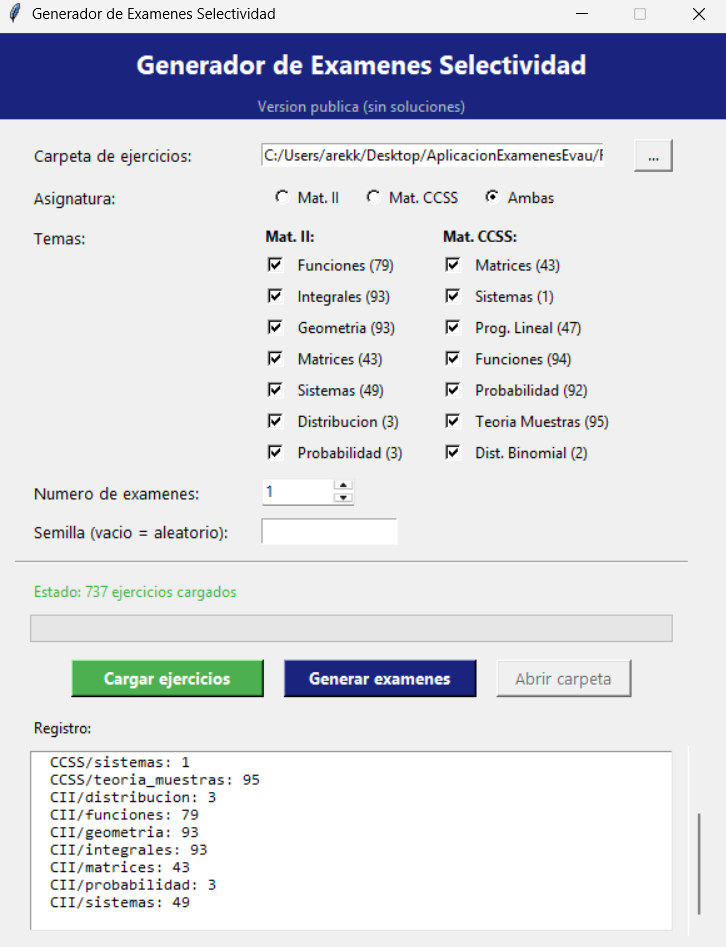
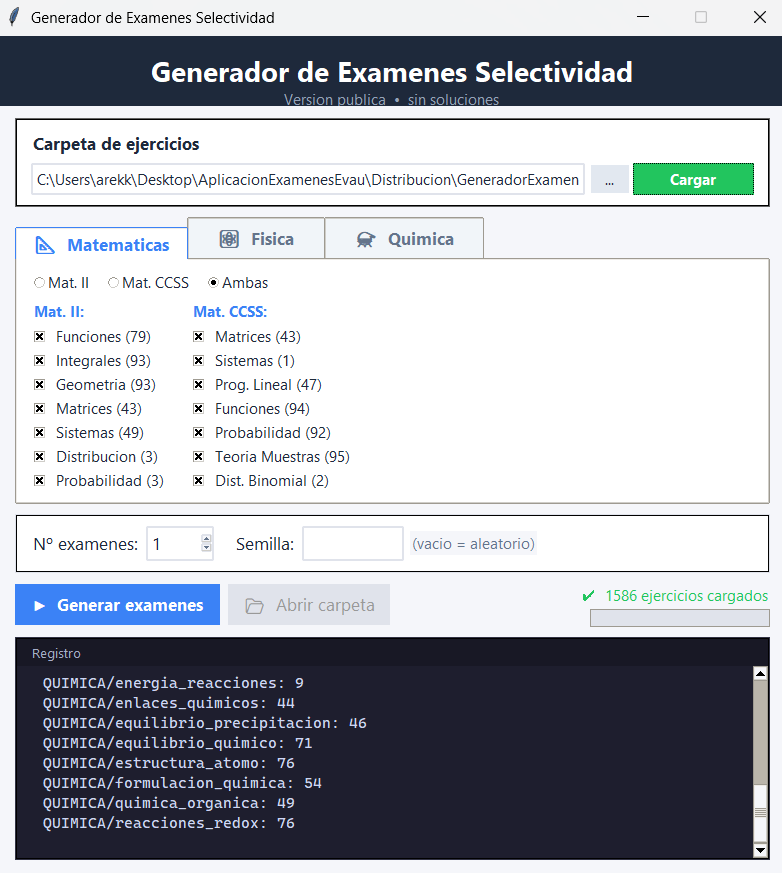
Update website

diff --git a/README.md b/README.md
@@ -1,6 +1,7 @@
-# Generador de Examenes Selectividad 
+# Generador de Examenes Selectividad
+
 <p align="center">
-  Crea exámenes personalizados de <b>Matemáticas II</b> y <b>Mates CCSS</b> en segundos.
+  Crea exámenes personalizados de <b>Matematicas II</b>, <b>Matematicas Aplicadas a las Ciencias Sociales (CCSS)</b>,<b>Fisica</b> y <b>Quimica</b> en segundos.
 </p>
 
 <p align="center">
@@ -15,7 +16,7 @@
 <p align="center">
   <a href="https://arekkmirmun.github.io/GeneradorExamenesEvauMatematicas/">
     <img 
-      src="https://img.shields.io/badge/ABRIR%20GENERADOR-EXÁMENES%20EVAU%20MATES-008080?style=for-the-badge&logo=github&logoColor=white" 
+      src="https://img.shields.io/badge/ABRIR%20GENERADOR-EXÁMENES%20EVAU%20-008080?style=for-the-badge&logo=github&logoColor=white" 
       alt="Ir al generador online" />
   </a>
 </p>
